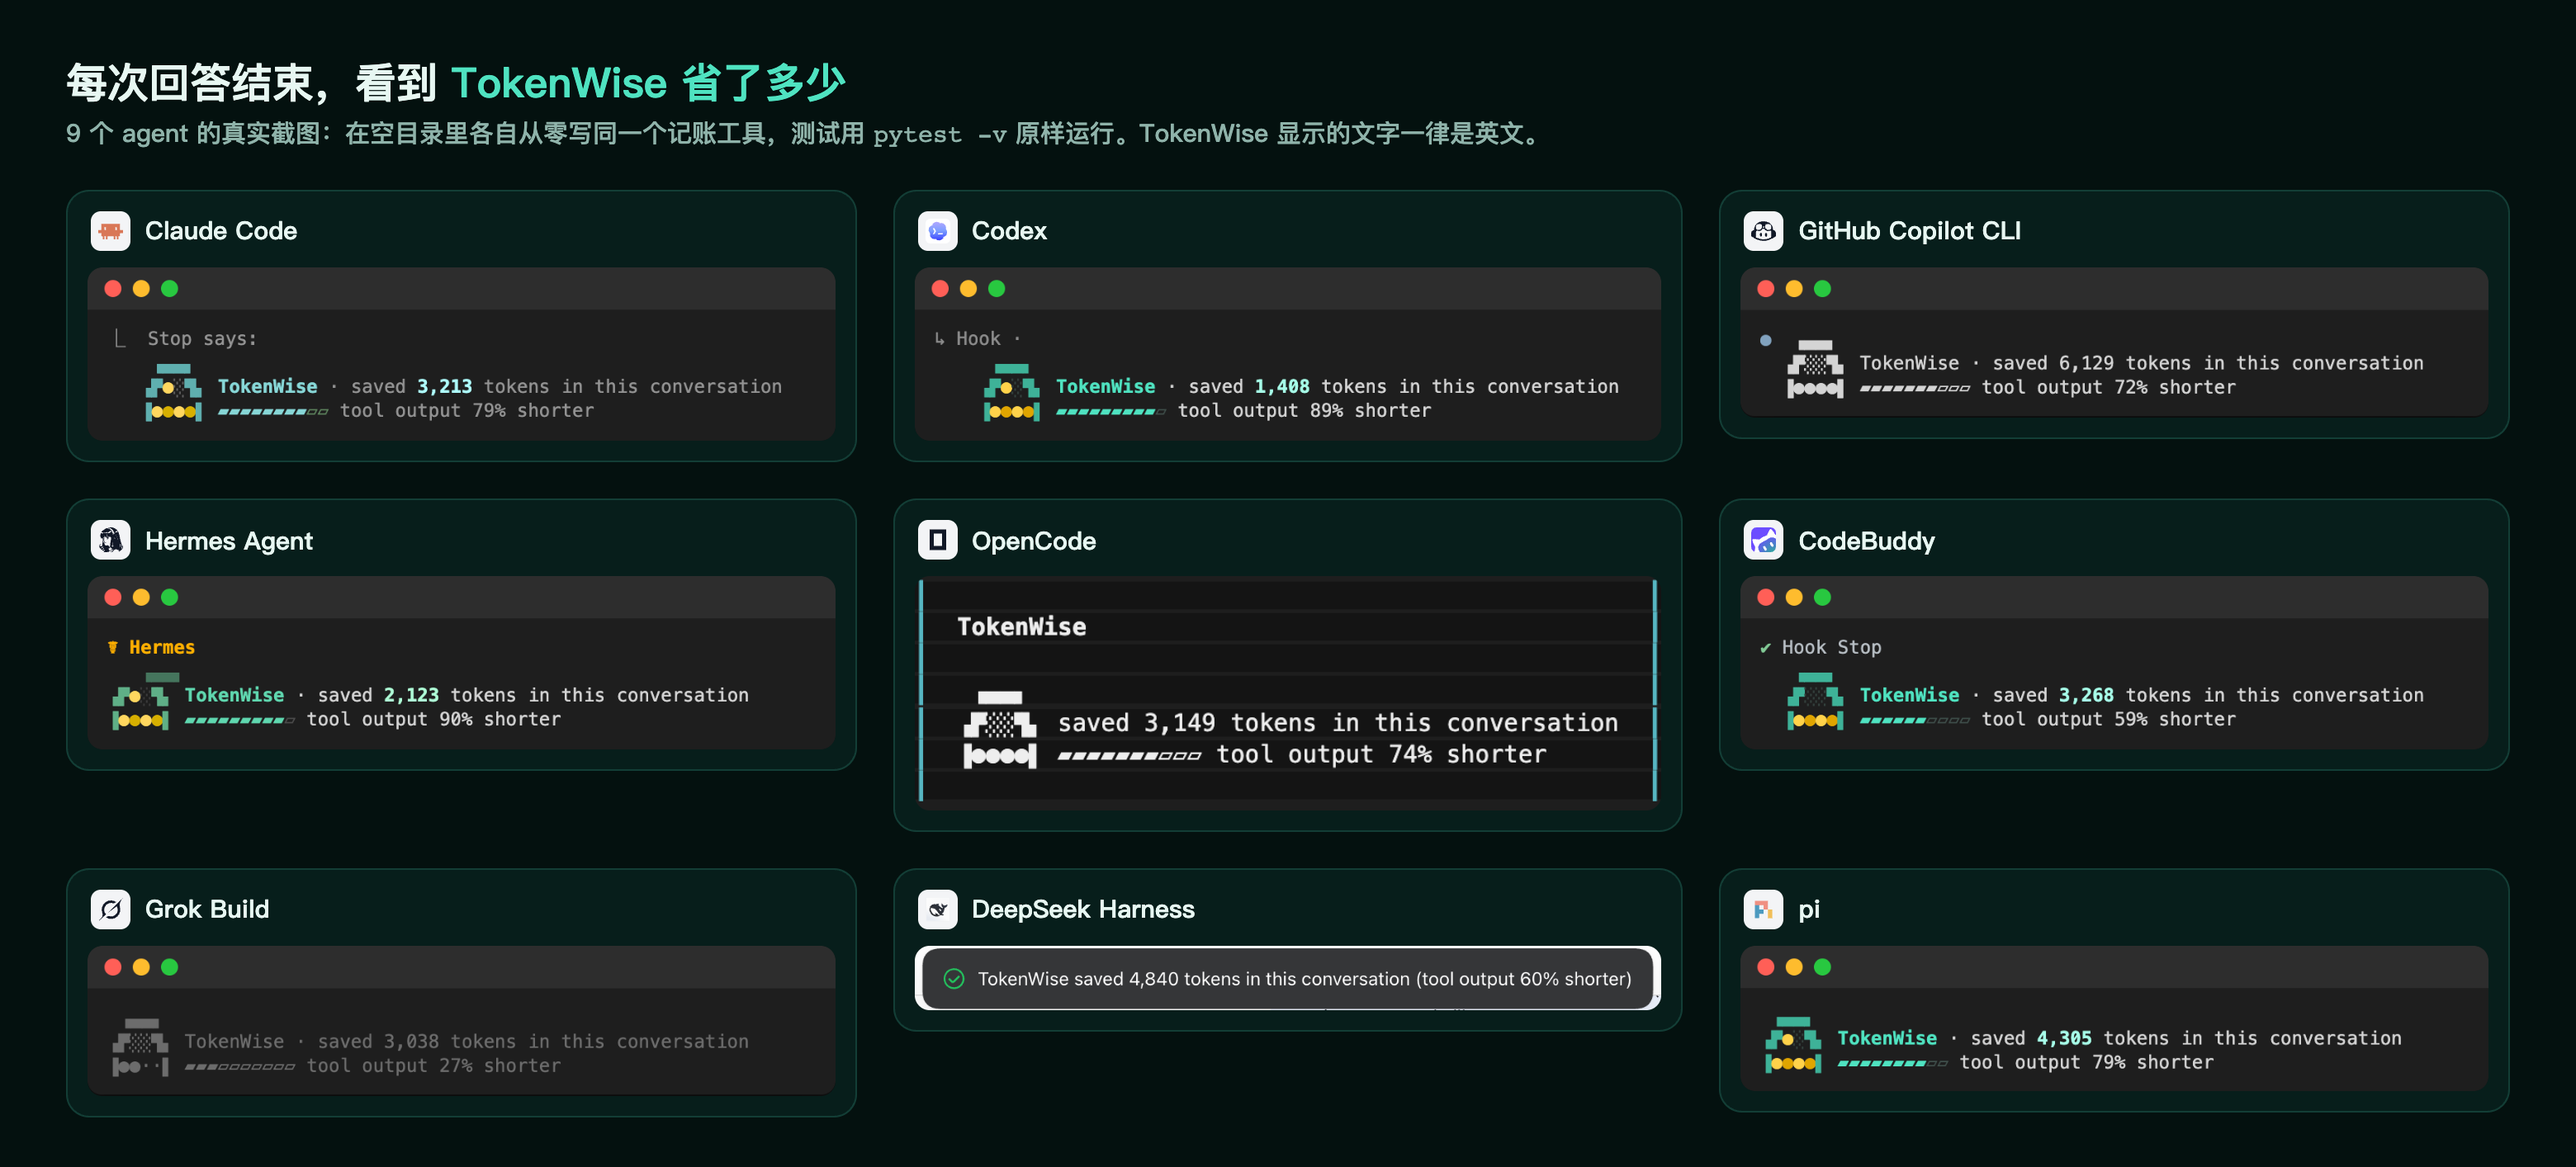
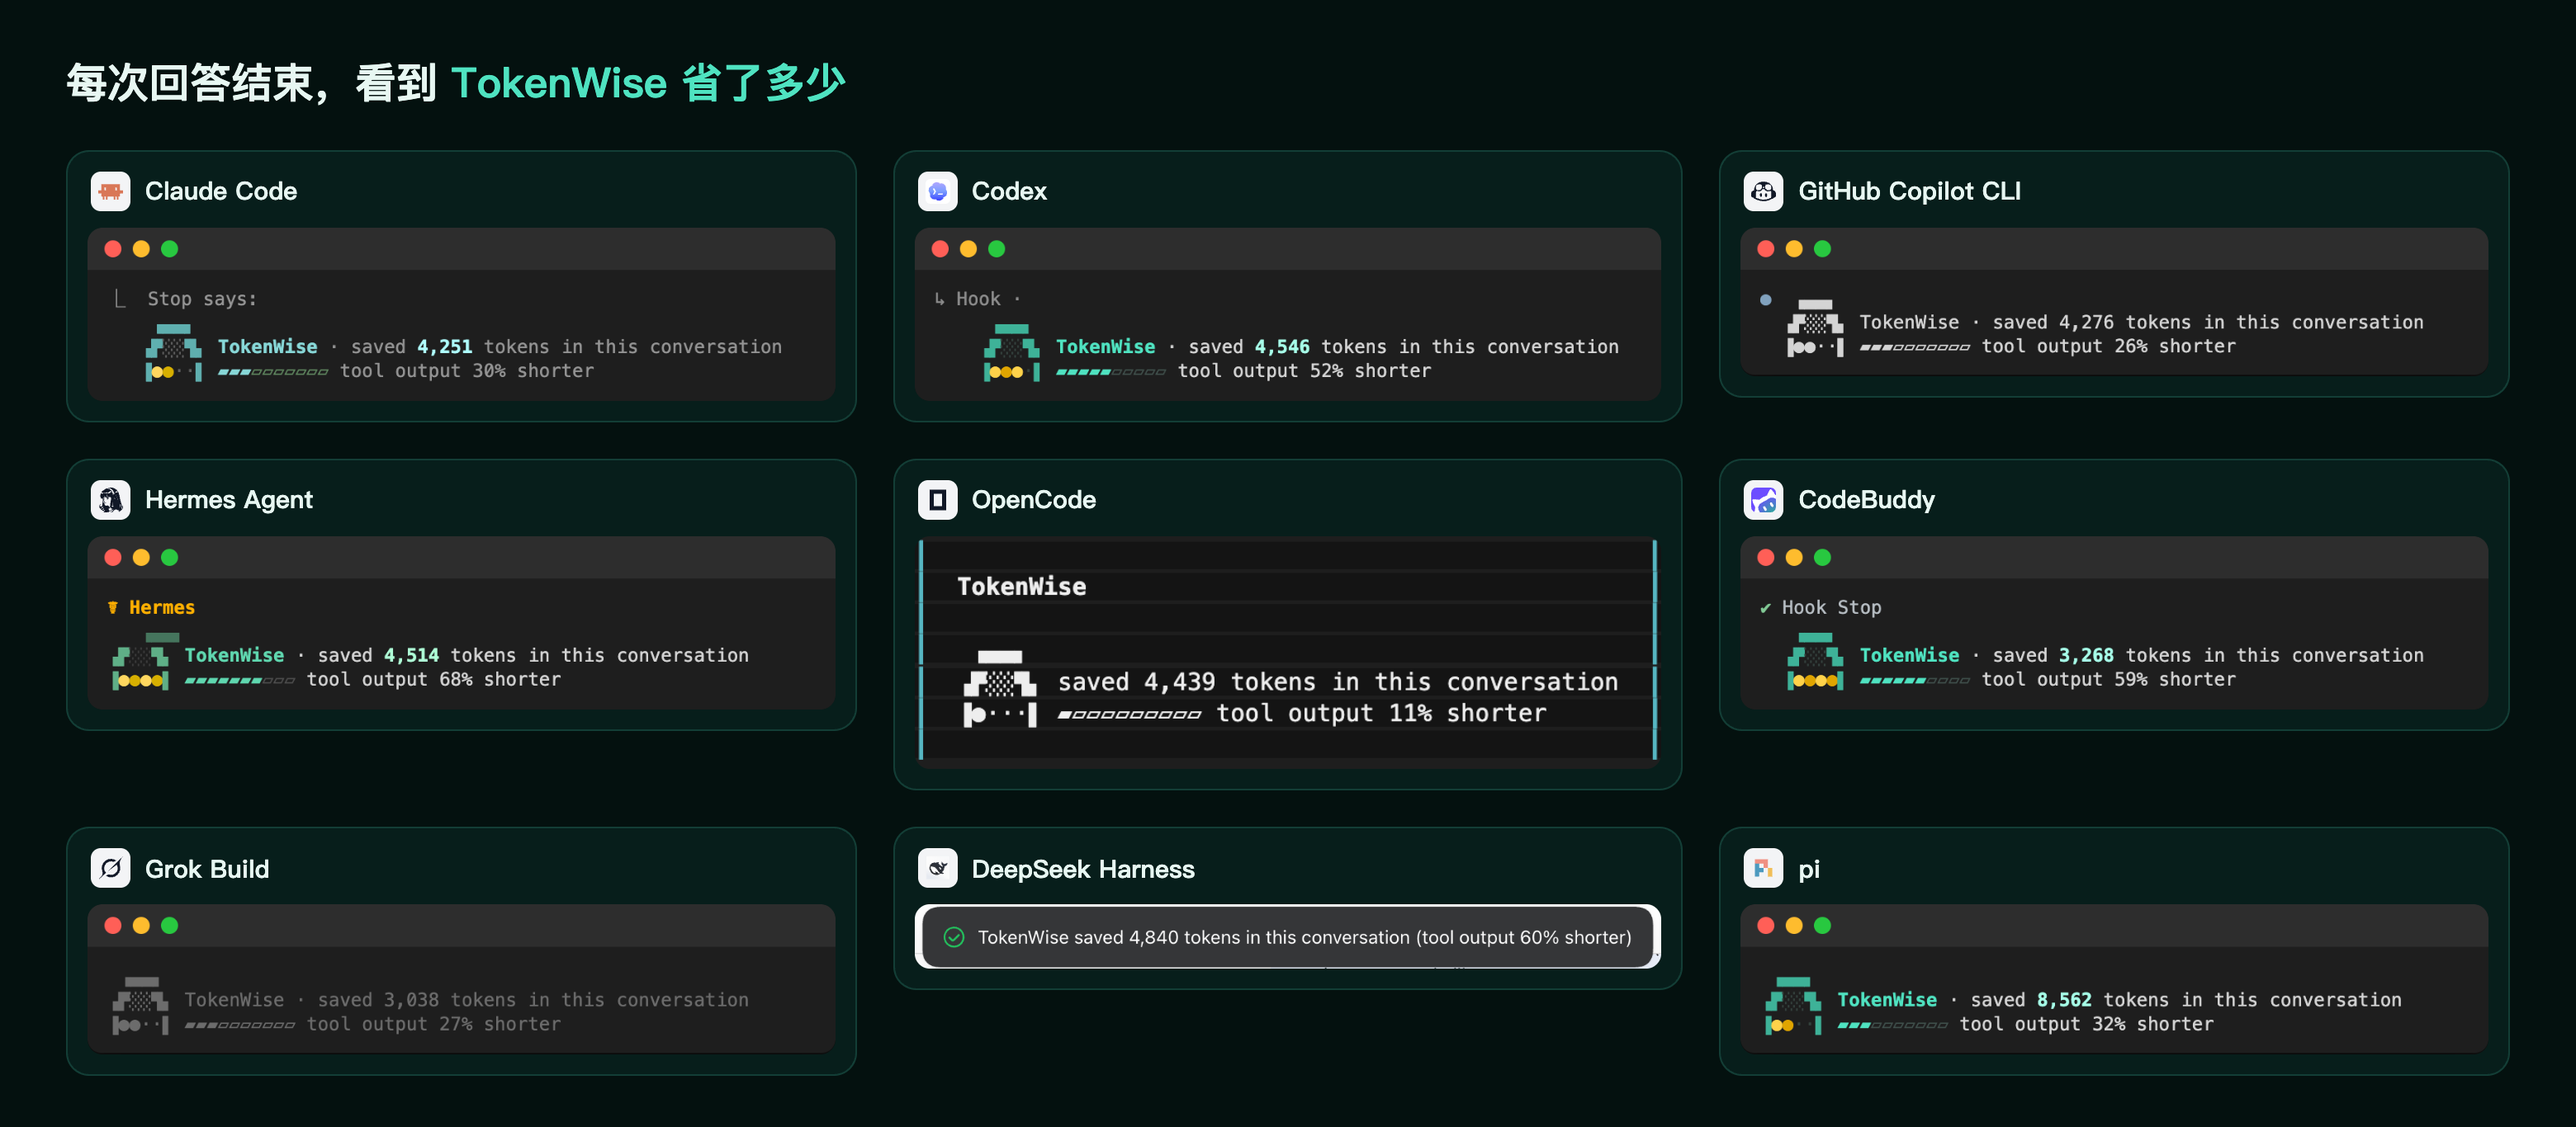
README from HKUDS (title, video placement) and a card wall on real tasks
- chaohuang-ai edited the README on HKUDS: the title now reads "Self-Evolving
  Context for Agents with Up to 50% Token Savings", and the video sits after
  the results.
- The card wall is re-shot on real coding tasks (a ledger tool from scratch,
  or a table format added to the tabulate library); the shares range from
  11% to 68%, and the caption says each number is from one real run.

diff --git a/README.md b/README.md
@@ -2,7 +2,7 @@
 
 <h1>
   <img src="docs/assets/logo.svg" width="48" height="48" align="absmiddle" alt="">
-  TokenWise: Make every token count for your agent
+  TokenWise: Self-Evolving Context for Agents with <br> Up to 50% Token Savings
 </h1>
 
 <p>
@@ -15,9 +15,6 @@
 ### The self-evolving token layer for AI agents
 
 </div>
-
-<p align="center"><a href="https://youtu.be/9p36ZR2rNtE"><img src="media/video/promo.gif" alt="TokenWise in nine agents: noise turns into coins, every answer ends with what was saved, and the savings grow through the week" width="100%"></a></p>
-<p align="center"><sub>▶ <a href="https://youtu.be/9p36ZR2rNtE">Watch the video on YouTube</a> · 35 seconds</sub></p>
 
 ## Why TokenWise?
 
@@ -43,6 +40,9 @@ Today's agents face:
 <p align="center"><img src="media/images/savings.png" alt="Algorithm development and maintenance (bug fixing and algorithm improvement): up to 38% fewer tokens. Systems software engineering (long-horizon, multi-module system development): up to 50%. Large-context Q&amp;A (in-depth Q&amp;A over a large context): up to 45%. Saves more over time: TokenWise adaptively learns its optimization strategy; after learning, up to 27% fewer tokens than before." width="100%"></p>
 
 <sub>From our paper's evaluation; the paper is coming soon.</sub>
+
+<p align="center"><a href="https://youtu.be/9p36ZR2rNtE"><img src="media/video/promo.gif" alt="TokenWise in nine agents: noise turns into coins, every answer ends with what was saved, and the savings grow through the week" width="100%"></a></p>
+<p align="center"><sub>▶ <a href="https://youtu.be/9p36ZR2rNtE">Watch the video on YouTube</a> · 35 seconds</sub></p>
 
 ## 🤖 Supported agents
 
@@ -71,7 +71,7 @@ allows, so the depth varies a little; the details are under [How each agent is c
 
 <p align="center"><img src="media/images/cards.png" alt="The card at the end of an answer in Claude Code, Codex, GitHub Copilot CLI, Hermes Agent, OpenCode, CodeBuddy, Grok Build, DeepSeek Harness and pi" width="100%"></p>
 
-<sub>Each agent built the same small ledger tool from scratch in an empty folder, running its tests as plain `pytest -v`; the numbers are from that one run.</sub>
+<sub>Numbers are from one real run in each agent.</sub>
 
 ## 🚀 Get started
 

diff --git a/media/README.md b/media/README.md
@@ -15,7 +15,7 @@ pytest log through the real filter (260 lines → 17, 19.0 KB → 852 bytes).
 | `images/story-how.png`, `-zh` | 2400 wide | the README's overview: one layer, context on demand, self-evolving |
 | `images/story-evolve.png`, `-zh` | 2400 wide | self-evolution in four steps (for posts and talks) |
 | `images/before-after.png`, `-zh` | 3200×1800 | the one-image demo: same run, 17 lines instead of 260 |
-| `images/cards.png`, `-zh` | 3120 wide | the README's card wall: real screenshots of the card at the end of an answer in all nine agents (each built the same small ledger tool from scratch, tests run as plain `pytest -v`) |
+| `images/cards.png`, `-zh` | 3120 wide | the README's card wall: real screenshots of the card at the end of an answer in all nine agents (one real coding task each, tests run as plain `pytest -v`) |
 | `images/icons/agent-*.png` | 128 px | the README's agent-wall badges for any shell and more agents |
 | `video/tokenwise-en.mp4`, `-zh.mp4` | 1920×1080, 53 s | the explainer, in three chapters: context on demand, self-evolving, cross-platform |
 | `video/tokenwise-promo-en.mp4` | 1920×1080, 35 s | the promo: TokenWise in every agent, saving into one jar, with a synthesized soundtrack cued to its scenes (`promo.html`, `music.mjs`; `node render.mjs video en promo`) |

diff --git a/docs/zh/README.md b/docs/zh/README.md
@@ -67,7 +67,7 @@
 
 <p align="center"><img src="../../media/images/cards-zh.png" alt="Claude Code、Codex、GitHub Copilot CLI、Hermes Agent、OpenCode、CodeBuddy、Grok Build、DeepSeek Harness 和 pi 里回答结束时的卡片" width="100%"></p>
 
-<sub>每个 agent 都在空目录里从零写了同一个记账工具，测试用 `pytest -v` 原样运行；数字只代表那一次运行。</sub>
+<sub>数字来自每个 agent 的一次真实运行。</sub>
 
 ## 🚀 开始使用
 
